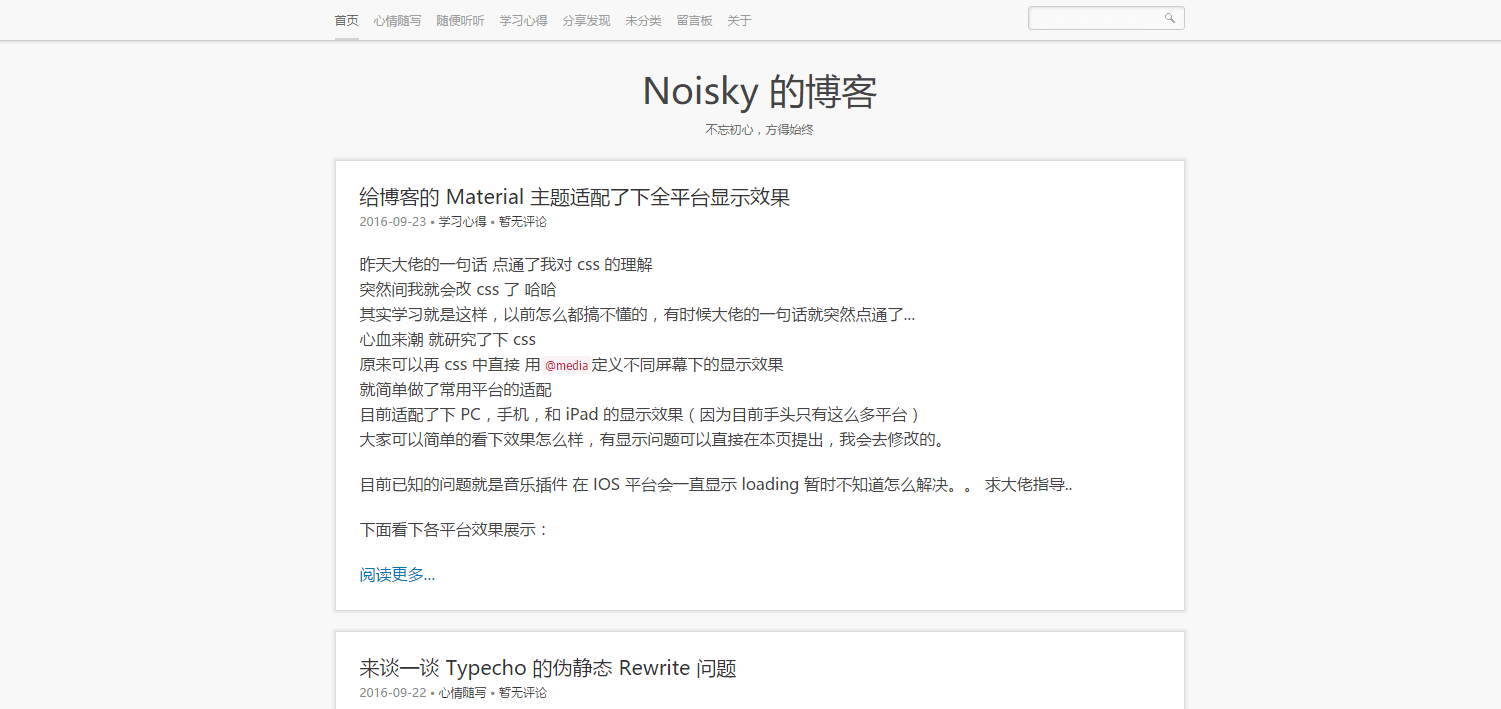
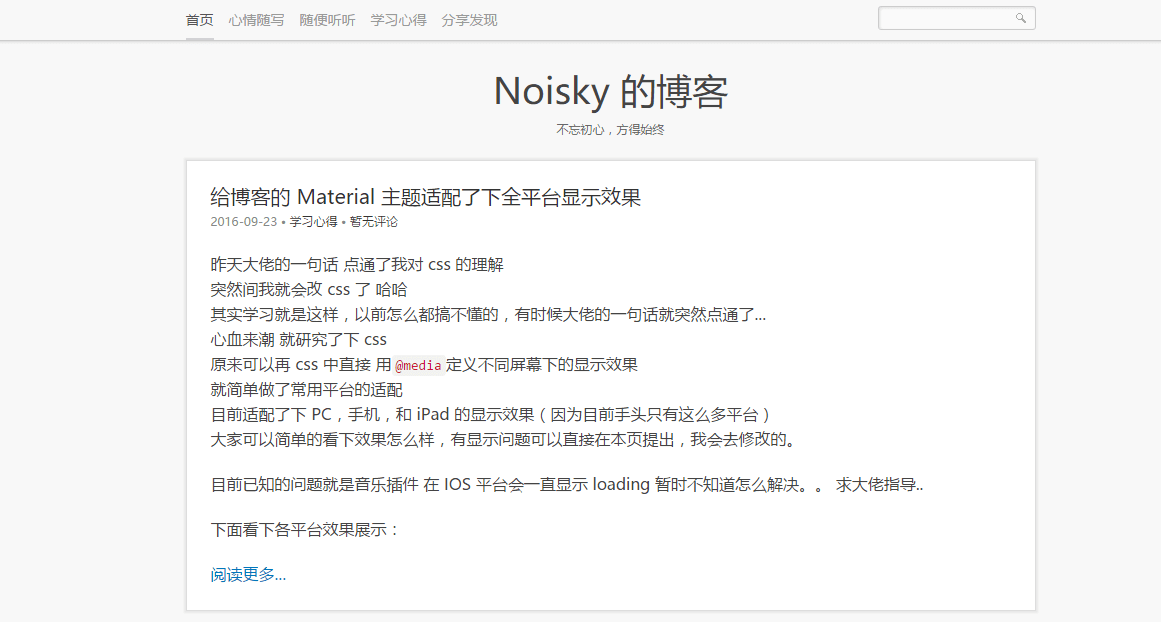
v1.2版发布
底部输出独立页面，移动端显示优化

diff --git a/style.css b/style.css
@@ -12,6 +12,7 @@ h1,h2,h3,h4,h5,h6 {font-weight:400;}
 h1 {font-size:24px;}
 h2 {font-size:20px;}
 h3 {font-size:16px;}
+h3.panel-title {font-size:12px; color:#999;}
 h4,h5,h6 {font-size:14px;}
 hr {margin-top:20px; margin-bottom:20px; border:0; border-top:1px solid #eee;}
 img {border:none;}
@@ -28,7 +29,7 @@ input[type^="radio"] {border:none; background:none; width:auto;}
 code {font:14px/1.5 Consolas,"Andale Mono","DejaVu Sans Mono",monospace; padding:2px 4px; border-radius:4px; color:#C13; background:#f3f3f0; word-break:break-word;}
 pre {max-width:100%; overflow:auto; padding:1em; margin-bottom:.5em; line-height:1.6; font-size:15px; background:#f3f3f0;}
 pre code {padding:0;}
-blockquote {background:#f6f6f6; border-left:2px dashed #ddd; padding:5px 10px; margin-bottom:20px;}
+blockquote {background:#f6f6f6; border-left: 0.25em solid #ddd; padding:5px 10px; margin-bottom:20px;}
 blockquote p {margin-bottom:10px;}
 .aligncenter {display:block; margin-left:auto; margin-right:auto;}
 .alignleft {float:left;}
@@ -89,8 +90,9 @@ legend {font-weight:bold;}
 /* Comment */
 #comments {margin-top:20px;}
 #comments p {margin-bottom:15px;}
+.comments_state{margin-left: 20px;}
 .comments_box {border:1px solid #ddd; background:#fff; padding:24px;}
-.comments_count {text-align:right; margin-bottom:10px; font-size:12px; color:#999;}
+.comments_count {text-align:right; margin:10px 10px; font-size:12px; color:#999;}
 .comment-child {margin-left:42px; border-top:1px dashed #ddd; padding-top:15px;}
 .comment-list li {border-bottom:1px solid #ddd; margin-bottom:20px; position:relative;}
 .comment-list .comment-children li {border-bottom:none; margin-bottom:0;}
@@ -114,39 +116,34 @@ img.avatar {float:left; margin-right:10px;}
 #comment_form p {font-size:12px; margin:0 0 5px; clear:left;}
 #comment_form label {font-size:12px; color:#555; display:block;}
 #comment_form label .required {color:#C04E37; padding-left:5px;}
-#comment_form textarea {font-size:14px; height:80px; line-height:24px; padding:3px 4px; width:88%; margin-right:1%;}
+#comment_form textarea {font-size:14px; height:80px; line-height:24px; padding:3px 4px; width:95%;}
 #comment_form button {background:#666; border:1px solid #444; color:#fff; font-size:14px; cursor:pointer; text-shadow:1px 1px #000; height:32px; line-height:32px; width:8%; text-align:center; vertical-align:top;}
 #comment_form button:hover {background:#222; border-color:#000;}
 .login_meta {margin-bottom:10px; overflow:hidden;}
-.login_meta li {float:left; width:27%; margin-right:1%;}
-.login_meta input {width:99%; height:26px; font-size:14px;}
-.login_meta li.urltext {width:33%;}
-/* Sidebar */
-#sidebar {background:#fff; border:1px solid #ddd; padding:24px; margin-top:20px; width:800px; display:table; overflow:hidden;}
-.side_box {width:240px; display:table-cell; vertical-align:top;}
-.side_box a {color:#666;}
-.side_1 {padding-right:20px;}
-.side_2 {border-left:1px solid #ddd; border-right:1px solid #ddd; padding:0 19px; font-size:13px;}
-.side_3 {padding-left:20px;}
-.side_3 li {margin-bottom:15px; overflow:hidden;}
-.icon {float:left; margin-right:10px;}
-.icon a {background:url(images/icon.png) no-repeat; display:block; width:85px; height:24px; font-size:0; text-indent:-999; overflow: hidden;}
-.weibo a {background-position:0 0;}
-.tqq a {background-position:-85px 0;}
-.rss {background:url(images/rss.png) no-repeat 0 2px; padding-left:20px; float:left; margin-right:10px;}
+.login_meta li {float:none;}
+.login_meta input {font-size: 14px; padding: 5px 0;}
+input#author,input#mail,input#url {width: 30%; padding: 4px 4px;}
 /* 404 */
 #nopage {background:url(images/404.png) no-repeat center 50px; min-height:250px; text-align:center; padding-top:160px;}
 /* Footer */
-#footer {font-size:12px; font-family:Tahoma, Helvetica, Arial; color:#999; padding:15px 0; text-align:center;}
-h3.panel-title {font-size:12px; color:#999;}
+#footer {font-size:12px; line-height: 1.8; color:#999; padding:15px 0; text-align:center;}
 #footer a {color:#666;}
+#footer nav a {font-size:14px; margin: 0 5px;}
+.lins {font-size:14px;}
 /* 多屏幕适配 */
-@media print, screen and (max-width:1290px) {
+@media print, screen and (max-width:768px) {
 #search {display: none !important;}
 #top {overflow:scroll;}
 #wrap {margin:0 auto;width:auto}
 .post_artice img {max-width:100%; height:auto;}
 #comment_form button {width:auto; padding:0px 5px;}
 #nav li {margin-right: 7.5px; margin-left: 7.5px;}
+#top {box-shadow:none;}
+.post {border:none; box-shadow:none; margin-bottom: 10px;}
+body {background:#f6f6f6 repeat;}
+.page-navigator {margin: 0px 0px 0px 15px;}
+.respond {border:none;}
+.comments_box {border:none;}
+input#author,input#mail,input#url {width: 95%; margin-bottom: .5em;}
 }
 

diff --git a/comments.php b/comments.php
@@ -1,3 +1,45 @@
+<?php function threadedComments($comments, $options) {
+    $commentClass = '';
+    if ($comments->authorId) {
+        if ($comments->authorId == $comments->ownerId) {
+            $commentClass .= ' comment-by-author';
+        } else {
+            $commentClass .= ' comment-by-user';
+        }
+    }
+ 
+    $commentLevelClass = $comments->levels > 0 ? ' comment-child' : ' comment-parent';
+?>
+ 
+<li id="li-<?php $comments->theId(); ?>" class="comment-body<?php 
+if ($comments->levels > 0) {
+    echo ' comment-child';
+    $comments->levelsAlt(' comment-level-odd', ' comment-level-even');
+} else {
+    echo ' comment-parent';
+}
+$comments->alt(' comment-odd', ' comment-even');
+echo $commentClass;
+?>">
+    <div id="<?php $comments->theId(); ?>">
+        <div class="comment-author">
+            <?php $comments->gravatar('32', ''); ?>
+            <cite class="fn"><?php $comments->author(); ?></cite>
+        </div>
+        <div class="comment-meta">
+            <a href="<?php $comments->permalink(); ?>"><?php $comments->date('Y-m-d H:i'); ?></a>
+            <span class="comment-reply"><?php $comments->reply(); ?></span>
+        </div>
+        <?php $comments->content(); ?>
+    </div>
+<?php if ($comments->children) { ?>
+    <div class="comment-children">
+        <?php $comments->threadedComments($options); ?>
+    </div>
+<?php } ?>
+</li>
+<?php } ?>
+
 <article id="comments">
     <?php $this->comments('comment')->to($comments); ?>
     <?php if($this->allow('comment')): ?>
@@ -8,25 +50,18 @@
                 <p><a href="<?php $this->options->profileUrl(); ?>"><?php $this->user->screenName(); ?></a>. <a href="<?php $this->options->logoutUrl(); ?>" title="退出">退出</a></p>
                 <?php else: ?>
                 <ul class="login_meta">
-                    <li>
-                        <label for="author">称呼<span class="required">*</span></label>
-                        <input type="text" name="author" id="author" size="15" value="<?php $this->remember('author'); ?>" required/>
-                    </li>
-                    <li>
-                        <label for="mail">电子邮件<?php if ($this->options->commentsRequireMail): ?><span class="required">*</span><?php endif; ?></label>
-                        <input type="text" name="mail" id="mail" size="15" value="<?php $this->remember('mail'); ?>" required/>
-                    </li>
-                    <li class="urltext">
-                        <label for="url">网站<?php if ($this->options->commentsRequireURL): ?><span class="required">*</span><?php endif; ?></label>
-                        <input type="text" name="url" id="url" size="15" value="<?php $this->remember('url'); ?>"/>
+                    <li>   
+                        <input type="text" name="author" id="author" placeholder="称呼*" value="<?php $this->remember('author'); ?>" required/>
+                        <input type="text" name="mail" id="mail" placeholder="电子邮件*" value="<?php $this->remember('mail'); ?>" required/>
+                        <input type="text" name="url" id="url" placeholder="网站" value="<?php $this->remember('url'); ?>"/>
                     </li>
                 </ul>
                 <?php endif; ?>
-                <p><textarea rows="3" cols="50" name="text" placeholder="添加一条评论" required ><?php $this->remember('text'); ?></textarea><button type="submit" class="submit">评 论</button></p>
+                <p><textarea rows="3" cols="50" name="text" id="textarea" placeholder="添加一条评论" required ><?php $this->remember('text'); ?></textarea><div><button type="submit" class="submit">评 论</button>&nbsp&nbsp<?php Smilies_Plugin::output(); ?></p></div>
             </form>
         </div>
     <?php else: ?>
-        <p>评论已关闭</p>
+    <div class="comments_state"><p>评论已关闭</p></div>
     <?php endif; ?>
     <?php if ($comments->have()): ?>
         <div class="comments_count"><?php $this->commentsNum(_t('当前暂无评论'), _t('仅有一条评论'), _t('已有 %d 条评论')); ?></div>

diff --git a/index.php b/index.php
@@ -1,11 +1,12 @@
 <?php
 /**
- * 1.这是一套由 Noisky 修改的基于 Rozv 的模板，支持 Typecho 1.0
- * 2.顶部菜单栏使用了分类和独立页面。
- * 3.底部的友情链接只有在安装了 <a href="http://www.noisky.cn/" target="_blank">Noisky</a> 修改的 <a href="https://github.com/noisky/Links-for-Rozv-Theme" target="_blank">Links插件</a> 才可显示,未安装不影响使用。 
+ * 1.这是一套由 Noisky 修改的基于 Rozv 的简洁的响应式模板，支持 Typecho 1.0
+ * 2.适配了移动端页面
+ * 3.底部输出独立页面
+ * 4.去除了侧边栏
  * @package Rozv
  * @author Noisky
- * @version 1.1
+ * @version 1.2
  * @link http://www.noisky.cn
  * @原作者 摄氏度
  */
@@ -23,5 +24,4 @@ $this->need('header.php');
 	</section>
 <?php endwhile; ?>
 <?php $this->pageNav(); ?>
-<?php// $this->need('sidebar.php'); ?>
 <?php $this->need('footer.php'); ?>

diff --git a/header.php b/header.php
@@ -20,11 +20,6 @@
             <?php while($categories->next()): ?>
                 <li<?php if($this->is('category', $categories->slug)): ?> class="current"<?php endif; ?>><a href="<?php $categories->permalink(); ?>"><?php $categories->name(); ?></a></li>
             <?php endwhile; ?>
-			<!--顶部菜单栏输出独立页面-->
-			<?php $this->widget('Widget_Contents_Page_List')->to($pages); ?> 
-            <?php while($pages->next()): ?>
-                <li<?php if($this->is('page', $pages->slug)): ?> class="current"<?php endif; ?>><a href="<?php $pages->permalink(); ?>"><?php $pages->title(); ?></a></li>
-            <?php endwhile; ?>
         </ul>
         <form id="search" method="post" action="<?php $this->options->siteUrl(); ?>">
             <input type="text" name="s" class="text" size="20" required />

diff --git a/functions.php b/functions.php
@@ -7,13 +7,4 @@ function themeConfig($form) {
     $rssUrl = new Typecho_Widget_Helper_Form_Element_Text('rssUrl', NULL, NULL, _t('自定义RSS地址'), _t('在这里填入自定义的RSS地址，比如通过FeedSky烧录的地址以方便统计数据'));
     $form->addInput($rssUrl);
 
-    $aboutText = new Typecho_Widget_Helper_Form_Element_Textarea('aboutText', NULL, NULL, _t('自我介绍'), _t('在这里填写一段自我介绍的说明文字以显示在底部'));
-    $form->addInput($aboutText);
-
-    $weibo = new Typecho_Widget_Helper_Form_Element_Text('weibo', NULL, NULL, _t('新浪微博地址'));
-    $form->addInput($weibo);
-
-    $tqq = new Typecho_Widget_Helper_Form_Element_Text('tqq', NULL, NULL, _t('腾讯微博地址'));
-    $form->addInput($tqq);
-
 }

diff --git a/footer.php b/footer.php
@@ -1,9 +1,10 @@
 <footer id="footer">
-<?php if (class_exists("Links_Plugin")) :?>
-<div>
-<?php Links_Plugin::output(); ?>
-</div>
-<?php endif; ?>
+<!--底部输出独立页面-->
+<nav>
+<?php $this->widget('Widget_Contents_Page_List')->to($pages); ?> 
+<?php while($pages->next()): ?><a href="<?php $pages->permalink(); ?>"><?php $pages->title(); ?></a>
+<?php endwhile; ?>
+</nav>
 &copy; <?php _e(date('Y')) ?> <a href="<?php $this->options->siteurl(); ?>"><?php $this->options->title(); ?></a> | Powered by <a href="http://www.typecho.org" target="_blank">Typecho)))</a></footer>
 <?php $this->footer(); ?>
 </body>

diff --git a/post.php b/post.php
@@ -10,5 +10,4 @@
 	</article>
 </section>
 <?php $this->need('comments.php'); ?>
-<?php //$this->need('sidebar.php'); ?>
 <?php $this->need('footer.php'); ?>
